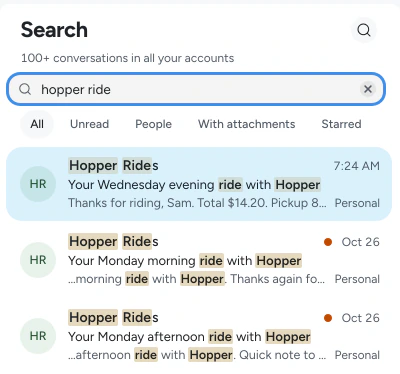
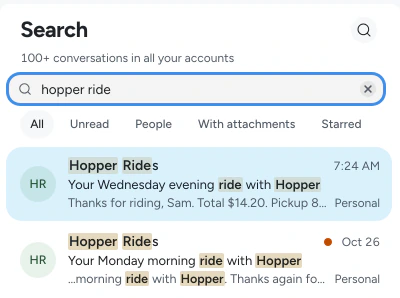
fix(site): the Codex review of Midnight's filled cells: the dashed "No Terno server" sits beside the wire, where a middleman would be, and the wire runs down the nodes' own track; search shows two results so it ends level with the filed newsletter (its own picture, filed-detail), and Lumen keeps the

diff --git a/apps/site/shots/shots.ts b/apps/site/shots/shots.ts
@@ -16,7 +16,8 @@ import { join } from "node:path";
 import { chromium, type Page } from "@playwright/test";
 import { startDevServer } from "@terno/backend-dev/src/server";
 import type { DesignId } from "@terno/core";
-import { around, type Box, ctx, dispose, encode, fencedPage, openApp, out, pictureSettings, seedProfile, serveWeb, site, VIEWPORT } from "./lib";
+import { around, type Box, ctx, dispose, encode, fencedPage, openApp, out, pictureSettings, seedProfile, serveWeb, site } from "./lib";
+import { FILED_WINDOW, SHORTCUTS_WINDOW, VIEWPORT } from "./windows";
 import { SHOWCASE_NOW } from "./showcase";
 
 const raw = join(site, ".shots-raw");
@@ -61,9 +62,6 @@ async function open(page: Page, subject: string) {
 async function blur(page: Page) {
   await page.evaluate(() => (document.activeElement as HTMLElement | null)?.blur());
 }
-
-/** the window the triage picture is taken in: the snackbar a little under the reply bar, no empty pane between */
-const TRIAGE_HEIGHT = 510;
 
 /** a newsletter filed in Reading (l), and the offer to file everything like it opened */
 async function fileSimilar(p: Page) {
@@ -117,8 +115,8 @@ const SHOTS: Shot[] = [
       await p.waitForTimeout(400);
     },
     // the field, what it found and the first results
-    // three results: as tall as the triage picture beside it in Midnight's grid
-    details: { search: async (p) => around([p.getByTestId("search-button"), rows(p, 2)], { pad: 0, x: await listPane(p), top: 0 }) },
+    // two results: as tall as the filed newsletter beside it in Midnight's grid
+    details: { search: async (p) => around([p.getByTestId("search-button"), rows(p, 1)], { pad: 0, x: await listPane(p), top: 0 }) },
   },
   {
     name: "palette",
@@ -158,17 +156,17 @@ const SHOTS: Shot[] = [
     },
     details: { archive: (p) => around([p.getByTestId("snack")], { pad: PAD }) },
   },
-  { name: "file-similar", setup: fileSimilar },
+  { name: "file-similar", setup: fileSimilar, details: { triage: (p) => around([p.getByTestId("snack")], { pad: PAD }) } },
   {
-    // the filed newsletter and what Terno offers under it, in one picture: a shorter window brings the snackbar up to
-    // the message (in the full one, the empty pane between them is most of the frame)
+    // the filed newsletter and what Terno offers under it, in one picture (Midnight's, as tall as search beside it): a
+    // shorter window brings the snackbar up to the message (in the full one, the empty pane between is most of the frame)
     name: "file-similar-short",
     detailsOnly: true,
-    viewport: { width: VIEWPORT.width, height: TRIAGE_HEIGHT },
+    viewport: FILED_WINDOW,
     setup: fileSimilar,
     details: {
-      triage: async (p) => {
-        const box = await around([p.getByTestId("reader-subject"), p.getByTestId("snack")], { pad: PAD + 8, window: { width: VIEWPORT.width, height: TRIAGE_HEIGHT } });
+      filed: async (p) => {
+        const box = await around([p.getByTestId("reader-subject"), p.getByTestId("snack")], { pad: PAD + 8, window: FILED_WINDOW });
         // closer above the title: the toolbar's buttons end just over it
         return { ...box, y: box.y + 10, height: box.height - 10 };
       },
@@ -176,19 +174,24 @@ const SHOTS: Shot[] = [
   },
   {
     name: "shortcuts",
-    // a taller window: the sheet is as tall as the window lets it be, and more of it reads as more of the keyboard
-    viewport: { width: VIEWPORT.width, height: 900 },
+    viewport: SHORTCUTS_WINDOW,
     setup: async (p) => {
       await blur(p);
       await p.keyboard.press("?");
       await p.getByTestId("shortcuts-dialog").waitFor();
       await p.waitForTimeout(300);
     },
-    details: { shortcuts: (p) => dialog(p, p.getByTestId("shortcuts-dialog"), { width: VIEWPORT.width, height: 900 }) },
+    details: { shortcuts: (p) => dialog(p, p.getByTestId("shortcuts-dialog"), SHORTCUTS_WINDOW) },
   },
 ];
 
+/** every picture a shot writes: its window (unless it's only sections) and its sections */
+const picturesOf = (shot: Shot) => [...(shot.detailsOnly ? [] : [shot.name]), ...Object.keys(shot.details ?? {}).map((d) => `${d}-detail`)];
+
 async function main() {
+  // a name that isn't a picture fails before anything is built or seeded, rather than "succeeding" with none (Codex review)
+  const unknown = only?.filter((n) => !SHOTS.some((s) => picturesOf(s).includes(n)));
+  if (unknown?.length) throw new Error(`--only: no picture named ${unknown.join(", ")} (pictures: ${SHOTS.flatMap(picturesOf).join(", ")})`);
   rmSync(raw, { recursive: true, force: true });
   mkdirSync(raw, { recursive: true });
   mkdirSync(out, { recursive: true });
@@ -202,7 +205,7 @@ async function main() {
     const browser = await chromium.launch();
     cleanup.push(() => browser.close());
     for (const shot of SHOTS) {
-      const pictures = [...(shot.detailsOnly ? [] : [shot.name]), ...Object.keys(shot.details ?? {}).map((d) => `${d}-detail`)];
+      const pictures = picturesOf(shot);
       const wanted = (name: string) => !only || only.includes(name);
       if (!pictures.some(wanted)) continue;
       for (const mode of shot.modes ?? (["light", "dark"] as const)) {

diff --git a/apps/site/src/designs/midnight.tsx b/apps/site/src/designs/midnight.tsx
@@ -67,14 +67,14 @@ function Section({ name, copy, sizes, className = "mt-auto" }: { name: ShotName;
   );
 }
 
-/**
- * Where your mail lives, as a picture that takes the card's height (it sits beside the unified inbox): your Mac and what
- * it keeps, a wire straight to your mail servers, and no server of Terno's between them. The card's words say the
- * same, so it's hidden from screen readers.
- */
 /** what the Mac keeps, each with its icon */
 const KEPT = { mail: Inbox, contacts: Users, index: Search } as const satisfies Record<keyof SiteCopy["features"]["local"]["map"]["kept"], unknown>;
 
+/**
+ * Where your mail lives, as a picture that takes the card's height (it sits beside the unified inbox): your Mac and what
+ * it keeps, a wire straight down to your mail servers, and beside the wire, where a server of ours would sit, none. The
+ * card's words say the same, so it's hidden from screen readers.
+ */
 function LocalMap({ m }: { m: SiteCopy["features"]["local"]["map"] }) {
   return (
     <div className="mt-auto flex flex-1 flex-col" aria-hidden="true" data-local-map>
@@ -97,10 +97,19 @@ function LocalMap({ m }: { m: SiteCopy["features"]["local"]["map"] }) {
           })}
         </ul>
       </div>
-      {/* the wire runs down from the Mac's node to the servers' (both 44 px, inside a 1 px border and 20 px of padding) */}
-      <div className="flex min-h-14 flex-1 items-center gap-3 ps-[42px]">
-        <span className="mn-wire-v self-stretch" />
-        <span className="font-mono text-[0.72rem] text-(--mn-dim)">{m.link}</span>
+      {/* the boxes' own border and padding, then the nodes' track: the wire runs from one node to the other, and what's
+          beside it starts on the boxes' text line */}
+      <div className="flex min-h-28 flex-1 gap-3 border-x border-transparent px-5">
+        <span className="mn-track">
+          <span className="mn-wire-v" />
+        </span>
+        <span className="flex flex-col justify-center gap-3 py-5">
+          <span className="font-mono text-[0.72rem] text-(--mn-dim)">{m.link}</span>
+          <span className="flex items-center gap-2.5 self-start rounded-lg border border-dashed border-(--mn-line) px-3.5 py-2.5 font-mono text-[0.72rem] text-pretty text-(--mn-dim)">
+            <X size="1.15em" className="shrink-0" />
+            {m.ours}
+          </span>
+        </span>
       </div>
       <div className="flex items-center gap-3 rounded-xl border border-(--mn-line) bg-(--mn-raised) p-5">
         <span className="mn-node">
@@ -111,10 +120,6 @@ function LocalMap({ m }: { m: SiteCopy["features"]["local"]["map"] }) {
           <span className="mt-0.5 block font-mono text-[0.72rem] text-(--mn-dim)">{m.providers}</span>
         </span>
       </div>
-      <p className="mt-3 flex items-center gap-2.5 rounded-xl border border-dashed border-(--mn-line) px-5 py-3.5 font-mono text-[0.72rem] text-(--mn-dim)">
-        <X size="1.15em" className="shrink-0" />
-        {m.ours}
-      </p>
     </div>
   );
 }
@@ -340,7 +345,7 @@ export const Midnight: HomeDesign = ({ copy, route }) => {
               <Section name="search-detail" copy={copy} sizes={half} />
             </Card>
             <Card f={f.triage} className="lg:col-span-3">
-              <Section name="triage-detail" copy={copy} sizes={half} />
+              <Section name="filed-detail" copy={copy} sizes={half} />
             </Card>
             <Card f={f.palette} className="lg:col-span-3">
               <Section name="palette-detail" copy={copy} sizes={halfWide} className="site-wide mt-auto" />

diff --git a/apps/site/src/render.test.ts b/apps/site/src/render.test.ts
@@ -5,6 +5,7 @@ import { render, routes } from "./entry-server";
 import { DESIGN_IDS } from "@terno/core";
 import { DESIGN_SHOTS } from "./parts/shot";
 import shots from "./shots.json";
+import { FILED_WINDOW, SHORTCUTS_WINDOW, VIEWPORT } from "../shots/windows";
 
 describe("prerendered pages", () => {
   for (const route of routes()) {
@@ -64,8 +65,9 @@ describe("screenshots", () => {
   });
 
   it("Midnight's local card pictures where mail lives, in each language: the Mac and what it keeps, the mail servers, no server of Terno's", () => {
+    // Midnight by name, in each language (the home routes, whatever design is live at /)
     for (const [path, copy] of [["/", COPY.en], ["/es/", COPY.es]] as const) {
-      const page = new JSDOM(render(routes().find((r) => r.path === path)!).body).window.document;
+      const page = new JSDOM(render({ ...routes().find((r) => r.path === path)!, design: "midnight" }).body).window.document;
       const card = [...page.querySelectorAll("article")].find((a) => a.querySelector("h3")?.textContent === copy.features.local.title)!;
       const map = card.querySelector("[data-local-map]")!;
       expect(map.getAttribute("aria-hidden"), path).toBe("true");
@@ -77,7 +79,7 @@ describe("screenshots", () => {
   it("a design that shows one part of the app shows a section picture of it, never a window moved behind a frame", () => {
     const parts: Record<string, string[]> = {
       "/designs/lumen/": ["unified", "triage", "archive", "code", "palette", "snippets"],
-      "/designs/midnight/": ["unified", "search", "triage", "palette", "snippets", "code", "shortcuts"],
+      "/designs/midnight/": ["unified", "search", "filed", "palette", "snippets", "code", "shortcuts"],
       "/designs/letter/": ["search", "code", "palette"],
     };
     for (const [path, names] of Object.entries(parts)) {
@@ -98,12 +100,13 @@ describe("screenshots", () => {
       const page = new JSDOM(render(routes().find((r) => r.path === path)!).body).window.document;
       for (const [, name] of DESIGN_SHOTS) for (const mode of ["light", "dark"]) expect(page.querySelector(`img[src="/shots/${name}-${mode}.webp"]`), `${path} ${name}`).not.toBeNull();
     }
-    // each is a part of the window it was framed from when it was taken (the shortcuts sheet's own, taller one), in both modes
+    // each is a part of the window it was framed from when it was taken (the shortcuts sheet's taller one, the filed
+    // newsletter's shorter one), in both modes
+    const windows: Record<string, { width: number; height: number }> = { shortcuts: SHORTCUTS_WINDOW, filed: FILED_WINDOW };
     for (const name of Object.values(parts).flat()) {
       for (const mode of ["light", "dark"]) {
-        const sizes = shots as Record<string, { width: number; height: number }>;
-        const size = sizes[`${name}-detail-${mode}`];
-        const window = sizes[`${name === "shortcuts" ? "shortcuts" : "inbox"}-${mode}`]!;
+        const size = (shots as Record<string, { width: number; height: number }>)[`${name}-detail-${mode}`];
+        const window = windows[name] ?? VIEWPORT;
         expect(size, `${name}-detail-${mode}`).toBeDefined();
         expect(size!.width <= window.width && size!.height <= window.height && size!.width * size!.height < window.width * window.height, name).toBe(true);
       }

diff --git a/apps/site/src/copy/es.ts b/apps/site/src/copy/es.ts
@@ -55,7 +55,7 @@ export const es: SiteCopy = {
       title: "Sin cuenta. Sin nube. Solo tu Mac.",
       body: "Tu correo se sincroniza entre tu Mac y tus servidores de correo, nunca a través de los nuestros. Tu correo, tus contactos y el índice de búsqueda viven en tu Mac.",
       points: ["Privado desde el primer momento", "Imágenes remotas solo si las pides", "Cero rastreo"],
-      map: { mac: "Tu Mac", kept: { mail: "Correo", contacts: "Contactos", index: "Índice de búsqueda" }, link: "Sincronización directa", servers: "Tus servidores de correo", providers: "Gmail · Outlook · IMAP", ours: "Sin servidores de Terno en medio" },
+      map: { mac: "Tu Mac", kept: { mail: "Correo", contacts: "Contactos", index: "Índice de búsqueda" }, link: "Sincronización directa", servers: "Tus servidores de correo", providers: "Gmail · Outlook · IMAP", ours: "Ningún servidor de Terno" },
     },
     search: {
       title: "Búsqueda instantánea.",
@@ -213,6 +213,7 @@ export const es: SiteCopy = {
     "code-detail": "Un código de verificación en su mensaje de la lista, con un botón para copiarlo",
     "search-detail": "Búsqueda de «hopper ride»: más de 100 resultados, al instante, con las palabras encontradas resaltadas",
     "triage-detail": "Tras clasificar un boletín en Reading, Terno ofrece clasificar los otros 84, y su correo futuro",
+    "filed-detail": "Un boletín recién clasificado en Reading y, debajo, la oferta de Terno de clasificar los otros 84, y su correo futuro",
     "archive-detail": "Tras archivar una promoción, Terno ofrece archivar las otras 14 del mismo remitente",
     "palette-detail": "La paleta de comandos, con los comandos de archivar que coinciden con lo escrito",
     "snippets-detail": "La lista de plantillas, cada una con su vista previa",

diff --git a/apps/site/src/copy/en.ts b/apps/site/src/copy/en.ts
@@ -59,7 +59,7 @@ export const en = {
       body: "Your mail syncs between your Mac and your mail servers, never through ours. Your mail, contacts and search index live on your Mac.",
       points: ["Private from the first launch", "Remote images only when you ask", "Zero tracking"],
       /** the picture of where it all lives (Midnight): your Mac, your mail servers, and no server of ours between them */
-      map: { mac: "Your Mac", kept: { mail: "Mail", contacts: "Contacts", index: "Search index" }, link: "Synced directly", servers: "Your mail servers", providers: "Gmail · Outlook · IMAP", ours: "No Terno server in between" },
+      map: { mac: "Your Mac", kept: { mail: "Mail", contacts: "Contacts", index: "Search index" }, link: "Synced directly", servers: "Your mail servers", providers: "Gmail · Outlook · IMAP", ours: "No Terno server" },
     },
     search: {
       title: "Instant search.",
@@ -219,6 +219,7 @@ export const en = {
     "code-detail": "A verification code on its message in the list, with a copy button",
     "search-detail": "Search for “hopper ride”: more than 100 results, instantly, with the matching words highlighted",
     "triage-detail": "After filing a newsletter in Reading, Terno offers to file the 84 more from it, and its future mail",
+    "filed-detail": "A newsletter just filed in Reading, and under it Terno’s offer to file the 84 more from it, and its future mail",
     "archive-detail": "After archiving a promotion, Terno offers to archive the 14 more from the same sender",
     "palette-detail": "The command palette, with the archive commands that match what was typed",
     "snippets-detail": "The snippets list, each with a preview",

diff --git a/apps/site/shots/lib.ts b/apps/site/shots/lib.ts
@@ -12,6 +12,7 @@ import type { Browser, Locator, Page } from "@playwright/test";
 import { startDevServer } from "@terno/backend-dev/src/server";
 import { DESIGN_PALETTE } from "@terno/core";
 import { SHOWCASE_NOW, SNIPPETS, showcaseDataset } from "./showcase";
+import { VIEWPORT } from "./windows";
 
 const here = dirname(fileURLToPath(import.meta.url));
 export const site = join(here, "..");
@@ -19,11 +20,8 @@ export const repo = join(site, "..", "..");
 const web = join(repo, "apps", "web");
 export const out = join(site, "public", "shots");
 export const ctx = { clientId: "shots", origin: "dev" as const };
-/**
- * The window the pictures show: a laptop-sized one, so the app reads large on the site (a 1440 px window shrinks to
- * three quarters of itself in the hero), captured at 2× and encoded near-losslessly so its text stays crisp.
- */
-export const VIEWPORT = { width: 1280, height: 800 };
+// the window the pictures show (a 1440 px one shrank to three quarters of itself in the hero): windows.ts
+export { VIEWPORT };
 
 export const freePort = () =>
   new Promise<number>((resolve) => {

diff --git a/apps/site/src/designs/midnight.css b/apps/site/src/designs/midnight.css
@@ -166,12 +166,15 @@ html[data-design="midnight"] .mn-card:hover { background: var(--mn-raised); }
 html[data-design="midnight"] .mn-icon { display: inline-flex; }
 
 /* local: your Mac and your mail server, nothing between */
+html[data-design="midnight"] { --mn-node: 44px; }
 html[data-design="midnight"] .mn-node {
-  display: grid; place-items: center; width: 44px; height: 44px; border-radius: 12px; color: var(--mn-muted);
+  display: grid; flex-shrink: 0; place-items: center; width: var(--mn-node); height: var(--mn-node); border-radius: 12px; color: var(--mn-muted);
   background: var(--mn-bg); box-shadow: 0 0 0 1px var(--mn-line);
 }
+/* a node's width, the wire down its middle: the wire meets each node's center whatever the boxes hold */
+html[data-design="midnight"] .mn-track { display: flex; flex-shrink: 0; justify-content: center; width: var(--mn-node); }
 html[data-design="midnight"] .mn-wire-v {
-  width: 1px; flex-shrink: 0;
+  width: 1px;
   background: repeating-linear-gradient(180deg, var(--mn-accent) 0 6px, transparent 6px 11px);
   opacity: 0.7;
 }

diff --git a/apps/site/shots/windows.ts b/apps/site/shots/windows.ts
@@ -1,0 +1,11 @@
+/**
+ * The windows the site's pictures are taken in (plan 97), in CSS pixels: what the capture scripts set and what
+ * render.test.ts holds each section picture inside. Plain data, so the test can read it without the scripts.
+ */
+
+/** A laptop-sized window, so the app reads large on the site; captured at 2×. */
+export const VIEWPORT = { width: 1280, height: 800 };
+/** The shortcuts sheet is as tall as the window lets it be: a taller one shows more of the keyboard. */
+export const SHORTCUTS_WINDOW = { width: VIEWPORT.width, height: 900 };
+/** The filed newsletter with the offer under it: short enough that the snackbar sits just under the reply bar. */
+export const FILED_WINDOW = { width: VIEWPORT.width, height: 510 };

diff --git a/docs/plans/97-terno-site.md b/docs/plans/97-terno-site.md
@@ -230,6 +230,7 @@ The owner: "we need to retake all pictures of the marketing site because we made
 
 The owner: "we have these spaces on the marketing page that i don't like, because its too much white space, lets do something about those 2 places": the local card beside the unified inbox, and the triage card beside search.
 
-- **Local:** the two small nodes became a picture of where mail lives that takes the card's height (`LocalMap`): your Mac and what it keeps (mail, contacts, the search index), a wire straight to your mail servers (Gmail · Outlook · IMAP), and a dashed line under them, "No Terno server in between". The words are the copy's (`features.local.map`, en and es; the card's text says the same, so the picture is hidden from screen readers). On a phone and at two columns it stacks the same way, its wire short.
-- **Triage:** the snackbar alone was 181 px tall beside a 450 px search. The picture is now the filed newsletter (its subject, the Reading chip) with the offer under it, taken in a 510 px window (`file-similar-short`, a section-only shot) so the snackbar sits just under the reply bar. Search shows three results, not four, so the two read as a pair.
+- **Local:** the two small nodes became a picture of where mail lives that takes the card's height (`LocalMap`): your Mac and what it keeps (mail, contacts, the search index), a wire straight down to your mail servers (Gmail · Outlook · IMAP), and beside the wire, where a middleman would sit, "Synced directly" and a dashed "No Terno server". The wire runs down the nodes' own track (`.mn-track`, `--mn-node`), so it meets each node's center whatever the boxes hold. The words are the copy's (`features.local.map`, en and es; the card's text says the same, so the picture is hidden from screen readers).
+- **Triage:** the snackbar alone was 181 px tall beside a 450 px search. Midnight's picture is now the filed newsletter (its subject, the Reading chip) with the offer under it (`filed-detail`), taken in a 510 px window (`file-similar-short`, a section-only shot) so the snackbar sits just under the reply bar; search shows two results, so the two end on one line. Lumen keeps the snackbar alone (`triage-detail`), which its stack with the archive offer is built for. The windows the pictures are taken in live in `shots/windows.ts`, which the scripts and the test share.
 - **Tests:** `render.test.ts` checks the local picture's words in both languages, and that it's hidden from screen readers.
+- **Codex review (seven points, fixed):** the wire's long empty band now holds what isn't there (the dashed "No Terno server" beside it); search shows two results, not three, so the pair ends level; Lumen keeps its snackbar-only picture; `--only` with a name that isn't a picture fails at once, naming the pictures there are; the wire sits on the nodes' track instead of a fixed offset, and nodes don't shrink; the map's test renders Midnight by name; each section picture is held inside its own source window (`windows.ts`).
